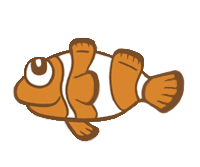
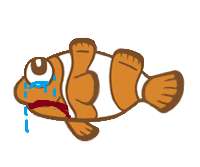
jeeeeee!!!

Changed region(s): [[0.12, 0.4491, 0.36, 0.8084]]

diff --git a/Matlab/TryOut.m b/Matlab/TryOut.m
@@ -1,0 +1,180 @@
+function TryOut
+    % Setup Game 
+
+% PT: check there are games already opened and close them
+    fig = get(groot,'CurrentFigure');
+    if ~isempty(fig)
+        close(fig)
+    end
+    clear fig   
+ 
+    [~, screen2] = getScreens();
+    fprintf('Experiment will displayed on: [%s]\n', sprintf('%d ',screen2));
+    % We put the game on screen 2
+  % Make animation  
+ G = SpriteKit.Game.instance('Title','Emotion Game', 'Size', screen2(3:4), 'Location', screen2(1:2), 'ShowFPS', false);
+ G.onMouseRelease = @buttondownfcn;
+
+    bkg = SpriteKit.Background(resizeBackgroundToScreenSize(screen2, '../Images/BACKGROUND_unscaled.png'));
+    addBorders(G);
+    
+% Initiate Sprites 
+% Clowns 
+    Clown = SpriteKit.Sprite('clown');
+    Clown.initState('angry','../Images/clownfish_1.png', true);
+    Clown.initState('sad','../Images/clownfish_2.png', true);
+    Clown.initState('joyful','../Images/clownfish_3.png', true);
+    Clown.initState('silent','../Images/clownfish_4.png', true);
+    
+    Clown.Location = [screen2(3)/4, screen2(4)-450]; 
+    Clown.State = 'silent';
+    ratioscreenclown = 0.25 * screen2(4);
+    [HeightClown, ~] = size(imread ('../Images/clownfish_1.png'));
+    Clown.Scale = ratioscreenclown/HeightClown;
+ 
+%       Buttons 
+    Buttonup = SpriteKit.Sprite ('buttonup'); 
+    Buttonup.initState ('on','../Images/buttonup_1.png', true);
+    Buttonup.initState ('off','../Images/buttonup_2.png', true); 
+    Buttonup.Location = [screen2(3)/2, screen2(4)-650];
+    Buttonup.State = 'on';
+    [HeightButtonup, WidthButtonup] = size(imread ('../Images/buttonup_1.png'));
+    % ratioscreenbuttons = 0.2 * screen2(4);
+    % [HeightButtons, ~] = size(imread ('../Images/buttons_1.png'));
+    Buttonup.Scale = 0.5;
+    
+    addprop(Buttonup, 'clickL');
+    addprop(Buttonup, 'clickR');
+    addprop(Buttonup, 'clickD');
+    addprop(Buttonup, 'clickU');
+    Buttonup.clickL = round(Buttonup.Location(1) - round(HeightButtonup/2));
+    Buttonup.clickR = round(Buttonup.Location(1) + round(HeightButtonup/2));
+    Buttonup.clickD = round(Buttonup.Location(2) - round(WidthButtonup/2));
+    Buttonup.clickU = round(Buttonup.Location(2) + round(WidthButtonup/2));
+
+    Buttondown = SpriteKit.Sprite ('buttondown'); 
+    Buttondown.initState ('on','../Images/buttondown_1.png', true);
+    Buttondown.initState ('off','../Images/buttondown_2.png', true);
+    Buttondown.Location = [screen2(3)/2.5, screen2(4)-650];
+    Buttondown.State = 'on';
+    [HeightButtondown, WidthButtondown] = size(imread ('../Images/buttondown_1.png'));
+    % ratioscreenbuttons = 0.2 * screen2(4);
+    % [HeightButtons, ~] = size(imread ('../Images/buttons_1.png'));
+    Buttondown.Scale = 0.5;
+    
+    addprop(Buttondown, 'clickL');
+    addprop(Buttondown, 'clickR');
+    addprop(Buttondown, 'clickD');
+    addprop(Buttondown, 'clickU');
+    Buttondown.clickL = round(Buttondown.Location(1) - round(HeightButtondown/2));
+    Buttondown.clickR = round(Buttondown.Location(1) + round(HeightButtondown/2));
+    Buttondown.clickD = round(Buttondown.Location(2) - round(WidthButtondown/2));
+    Buttondown.clickU = round(Buttondown.Location(2) + round(WidthButtondown/2));
+    
+results = struct ();
+response_accuracy = [];
+countTrials = 0; 
+starting = 1;   
+
+soundDir = '../Stimuli/Emotion_normalized/';
+emotionvoices = classifyFiles(soundDir);
+options = [];
+[expe, options] = building_conditions(options);
+
+phase = 'test';
+options.(phase).total_ntrials
+  
+for iTrial = 1 : options.(phase).total_ntrials
+    
+    Clown.State = 'silent';
+    Buttonup.State = 'off';
+    Buttondown.State = 'off';
+    
+    emotionVect = strcmp({emotionvoices.emotion}, expe.(phase).condition(iTrial).voicelabel);
+    phaseVect = strcmp({emotionvoices.phase}, phase);
+    possibleFiles = [emotionVect & phaseVect];
+    indexes = 1:length(possibleFiles);
+    indexes = indexes(possibleFiles);
+    %this should store all names of possibleFiles 
+    toPlay = randperm(length(emotionvoices(indexes)),1);
+    
+    [y, Fs] = audioread(emotionvoices(indexes(toPlay)).name);
+    disp (emotionvoices(indexes(toPlay)).emotion)
+    player = audioplayer (y, Fs);
+    playblocking (player); 
+    
+    Clown.State = expe.(phase).condition(iTrial).facelabel;
+    Buttonup.State = 'on';
+    Buttondown.State = 'on';
+    tic();
+    uiwait();
+    % remove just played file from list of possible sound files
+    emotionvoices(indexes(toPlay)) = [];
+    
+    
+    %if PrevRespAcc 
+        %Confetti.State = 
+    
+    resp(iTrial).response=response;
+    resp(iTrial).condition=expe.(phase).condition(iTrial);
+    
+    save ('tryoutresponses.mat', 'resp');
+    
+    
+end
+
+% response_accuracy = [response_accuracy, response.correct]; 
+% resp = repmat(struct(response.button_clicked, 0), 1);
+
+
+function buttondownfcn(hObject, callbackdata)
+    
+        locClick = get(hObject,'CurrentPoint');
+        if starting == 1
+            % uiwait();
+            
+            response.timestamp = now();
+            response.response_time = toc();
+            response.button_clicked = 0; % default in case they click somewhere else
+            
+                if (locClick(1) >= Buttonup.clickL) && (locClick(1) <= Buttonup.clickR) && ...
+                        (locClick(2) >= Buttonup.clickD) && (locClick(2) <= Buttonup.clickU)
+                    response.button_clicked = 1;
+                end
+                
+                if (locClick(1) >= Buttondown.clickL) && (locClick(1) <= Buttondown.clickR) && ...
+                        (locClick(2) >= Buttondown.clickD) && (locClick(2) <= Buttondown.clickU)
+                    response.button_clicked = 0;
+                end
+                    response.correct = (response.button_clicked == expe.(phase).condition(iTrial).congruent);
+                    
+                    fprintf('Clicked button: %d\n', response.button_clicked);
+                    fprintf('Trials: %d\n', iTrial);
+                    fprintf('Response time : %d ms\n', round(response.response_time*1000));
+                    fprintf('Response: %d\n', response.correct);
+                    
+                    uiresume
+        end
+               
+end
+
+    
+G.onKeyPress = @keypressfcn;  
+function keypressfcn(~,e)
+        switch e.Key
+            case 'a'
+                Clown.State = 'angry';
+            case 's'
+                Clown.State = 'sad';
+            case 'd'
+                Clown.State = 'joyful';
+        end
+end 
+
+
+end
+
+
+
+
+     

diff --git a/Matlab/EmotionGame.m b/Matlab/EmotionGame.m
@@ -1,6 +1,6 @@
 
 function [G, bkg, Clown, Buttons, screen2] = EmotionGame
-%%       Setup Game 
+%      Setup Game 
 
 % PT: check if there are games already opened and close them
     fig = get(groot,'CurrentFigure');
@@ -12,7 +12,7 @@ function [G, bkg, Clown, Buttons, screen2] = EmotionGame
     [~, screen2] = getScreens();
     fprintf('Experiment will displayed on: [%s]\n', sprintf('%d ',screen2));
     % We put the game on screen 2
-  %% Make animation  
+  % Make animation  
  G = SpriteKit.Game.instance('Title','Emotion Game', 'Size', screen2(3:4), 'Location', screen2(1:2), 'ShowFPS', false);
 
     bkg = SpriteKit.Background(resizeBackgroundToScreenSize(screen2, '../Images/BACKGROUND_unscaled.png'));
@@ -45,11 +45,11 @@ function [G, bkg, Clown, Buttons, screen2] = EmotionGame
     end
     Buttons.Location = [screen2(3)/2, screen2(4)-650];
     Buttons.State = 'buttons';
-    ratioscreenbuttons = 0.2 * screen2(4);
-    [HeightButtons, ~] = size(imread ('../Images/buttons_1.png'));
-    Buttons.Scale = ratioscreenbuttons/HeightButtons;
-        
-  %      CircusAnimals 
+    % ratioscreenbuttons = 0.2 * screen2(4);
+    % [HeightButtons, ~] = size(imread ('../Images/buttons_1.png'));
+    Buttons.Scale = 0.3;
+    
+      %      CircusAnimals 
 %    CircusAnimal = Spritekit.Sprite ('circusanimal');
 %     initState (CircusAnimal, 'circusanimals', '../Images/circusanimal_1.png', true);
 %     for k = 1:8 % in case of 8 different images (different image for every 6 trials)
@@ -69,6 +69,28 @@ function [G, bkg, Clown, Buttons, screen2] = EmotionGame
 %     initState (Confetti, 'confetti', '../Images/confetti.png', true);
 %     Confetti.Location = [screen2(3)/4, screen2(4)-450];
 %     Confetti.State = 'confetti';
+   
+    
+   %% 
+   G.onKeyPress = @keypressfcn;
+   
+   
+     function keypressfcn(~,e)
+      switch e.Key
+            case 'a'
+                Clown.State = 'clownfish_1';
+            case 's'
+                Clown.State = 'clownfish_2';
+            case 'd'
+                Clown.State = 'clownfish_3';
+            case 'f'
+                Clown.State = 'clownfish_4';
+        end
+     end    
+
+ 
+    
+    
 
    % function action (Clown)
    %     Clown.State = Clown.CycleNext; 

diff --git a/Matlab/PlaytheGame.m b/Matlab/PlaytheGame.m
@@ -1,0 +1,43 @@
+
+[G, bkg, Clown, Buttons, screen2] = EmotionGame;
+    G.onMouseRelease = @buttondownfcn;
+    
+    
+results = struct();
+   
+   %=============================================================== MAIN LOOP
+while mean([expe.( phase ).conditions.done])~=1 % Keep going while there are some conditions to do
+   
+   
+   while starting == 0
+            uiwait();
+    end
+        
+    % Add the response to the results structure
+    expe.( phase ).condition(itrial).attempts = expe.( phase ).condition(itrial).attempts + 1;
+    n_attempt = expe.( phase ).conditions(itrial).attempts;
+    
+    previousRespAcc = 1; % accuracy of the previous response
+    while true
+    
+
+
+
+
+function PlaytheGame 
+
+iTrial = 1;
+
+
+iTrial = iTrial + 1; 
+
+
+
+play sound
+
+clown changes 
+buttons appear
+wait for response
+collect response
+go to next trial
+update counter 

diff --git a/Matlab/playSounds.m b/Matlab/playSounds.m
@@ -1,10 +1,7 @@
-function [player, possibleFiles] = playSounds 
-
-soundDir = '../Stimuli/Emotion/Emotion_normalized/';
+function [player] = playSounds (iTrial)
 emotionvoices = classifyFiles(soundDir);
 options = [];
-[expe, options] = building_conditions2(options);
-
+[expe, options] = building_conditions(options);
 
 phase = 'test';
 options.(phase).total_ntrials
@@ -23,13 +20,20 @@ for iTrial = 1 : options.(phase).total_ntrials
     disp (emotionvoices(indexes(toPlay)).name)
     player = audioplayer (y, Fs);
     playblocking (player); 
-    
+     uiwait();
     % remove just played file from list of possible sound files
     emotionvoices(indexes(toPlay)) = [];
     
-end
     
+end
 
     
+    
+        
+    
+end
+
+
+
     
 

diff --git a/Matlab/interface.m b/Matlab/interface.m
@@ -64,7 +64,7 @@ function interface(phase)
     [expe, options] = building_conditions2(options);
     
     % initialize response structure
-    resp = repmat(struct('key', 0, 'acc', 0), 1, options.(phase).total_ntrials);
+    resp = repmat(struct('key', 0, 'acc', 0), 1);
     % initialize response counter
     iresp = 0;
 

diff --git a/Matlab/keypressfcn.m b/Matlab/keypressfcn.m
@@ -1,0 +1,10 @@
+function keypressfcn(~,e)
+        switch e.Key
+            case 'a'
+                Clown.State = 'angry';
+            case 's'
+                Clown.State = 'sad';
+            case 'd'
+                Clown.State = 'joyful';
+        end
+  end  
